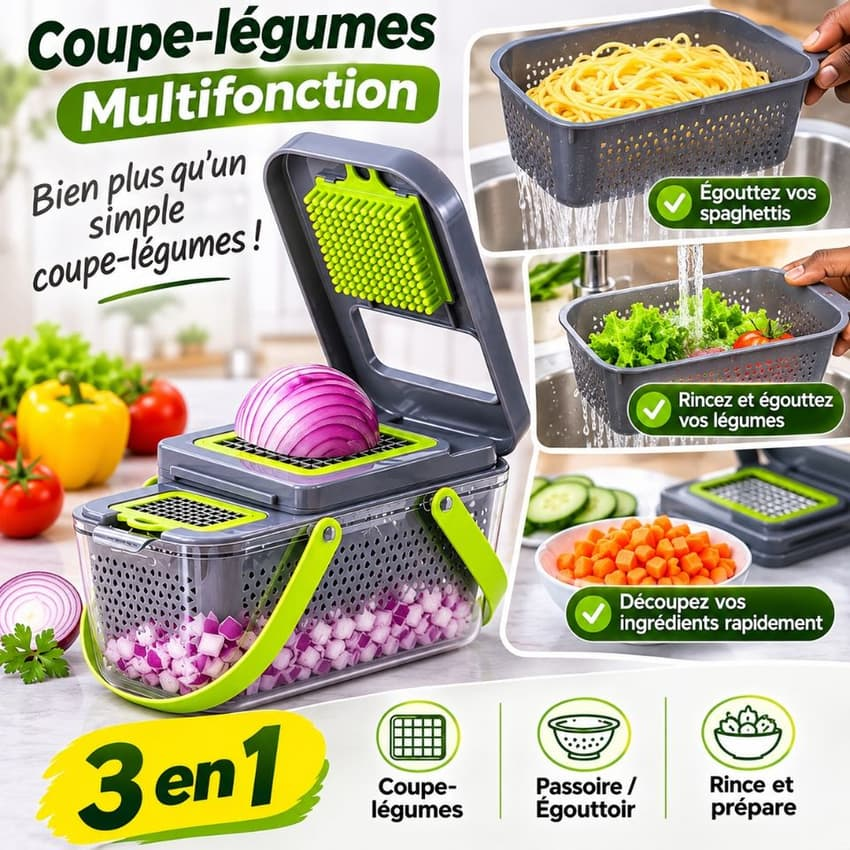
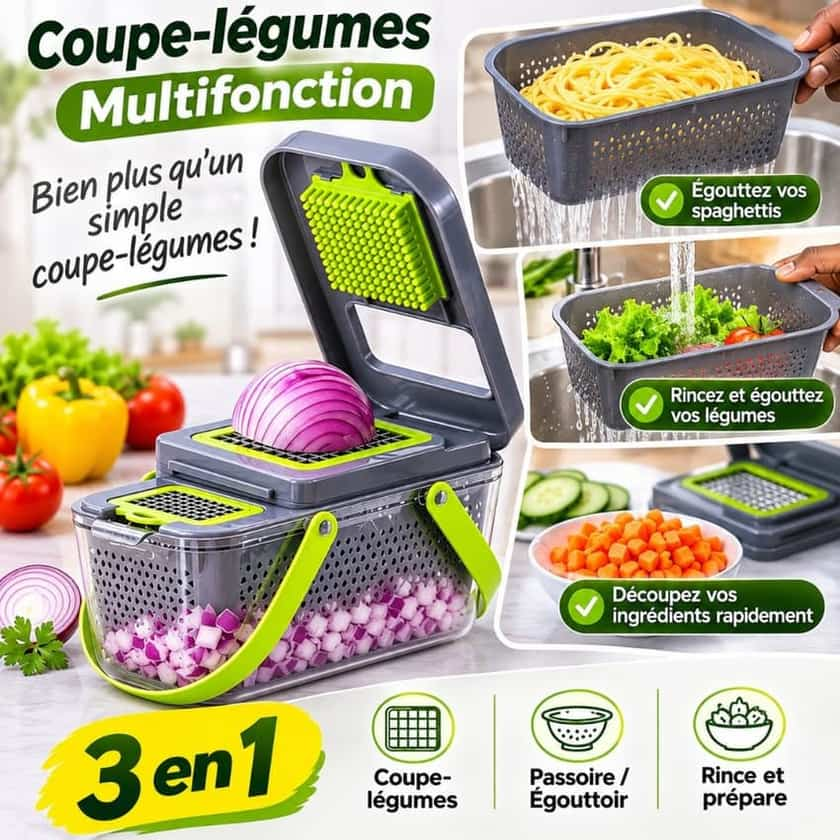
fix(peeler): clean InitiateCheckout trigger, compress images <90KB, add 1-click WhatsApp CTA

diff --git a/components/features/PeelerLanding.tsx b/components/features/PeelerLanding.tsx
@@ -18,6 +18,7 @@ import {
   Salad,
   Flame,
   Zap,
+  MessageCircle,
 } from "lucide-react";
 import { saveNewOrder } from "@/lib/ordersStorage";
 import { usePagePresence } from "@/hooks/usePagePresence";
@@ -203,12 +204,6 @@ export default function PeelerLanding({ slug = "peeler" }: { slug?: string }) {
       currency: "XOF",
       num_items: 1,
     });
-    trackInitiateCheckout({
-      content_name: "Coupe-Légumes Multifonction 14-en-1 avec Panier Égouttoir à Anses™",
-      content_ids: ["peeler"],
-      value: 14900,
-      currency: "XOF",
-    });
     const el = document.getElementById("commander");
     if (el) el.scrollIntoView({ behavior: "smooth", block: "start" });
   };
@@ -222,6 +217,16 @@ export default function PeelerLanding({ slug = "peeler" }: { slug?: string }) {
 
     setIsSubmitting(true);
     setOrderError("");
+    recordInteraction();
+    trackInitiateCheckout({
+      content_name: selectedBundle.name,
+      content_ids: ["peeler"],
+      value: selectedBundle.price,
+      currency: "XOF",
+      customer_phone: customerPhone.trim(),
+      customer_name: customerName.trim(),
+      city: city.trim() || "Cotonou",
+    });
 
     try {
       const order = await saveNewOrder({
@@ -439,6 +444,31 @@ export default function PeelerLanding({ slug = "peeler" }: { slug?: string }) {
             accentColor="#16A34A"
             onSubmit={handleOrderSubmit}
           />
+          <div className="mt-3 text-center space-y-1.5">
+            <p className="text-[11px] font-medium text-slate-500">
+              Vous préférez commander ou poser une question directement ?
+            </p>
+            <a
+              href={`https://wa.me/2290192901817?text=${encodeURIComponent(
+                "Bonjour Isivente ! Je souhaite commander le Coupe-Légumes Multifonction 14-en-1 à 14 900 FCFA (paiement à la livraison)."
+              )}`}
+              target="_blank"
+              rel="noopener noreferrer"
+              onClick={() => {
+                recordInteraction();
+                trackAddToCart({
+                  content_name: selectedBundle.name,
+                  content_ids: ["peeler"],
+                  value: selectedBundle.price,
+                  currency: "XOF",
+                });
+              }}
+              className="w-full inline-flex items-center justify-center gap-2 px-5 py-3.5 rounded-xl bg-[#16A34A] hover:bg-[#15803d] text-white font-semibold text-sm shadow-xs transition-colors"
+            >
+              <MessageCircle className="w-4 h-4 stroke-[2]" />
+              <span>Commander par WhatsApp (1 clic)</span>
+            </a>
+          </div>
         </div>
 
         {/* ── 8. GRILLE DES 4 BÉNÉFICES MAJEURS ── */}
